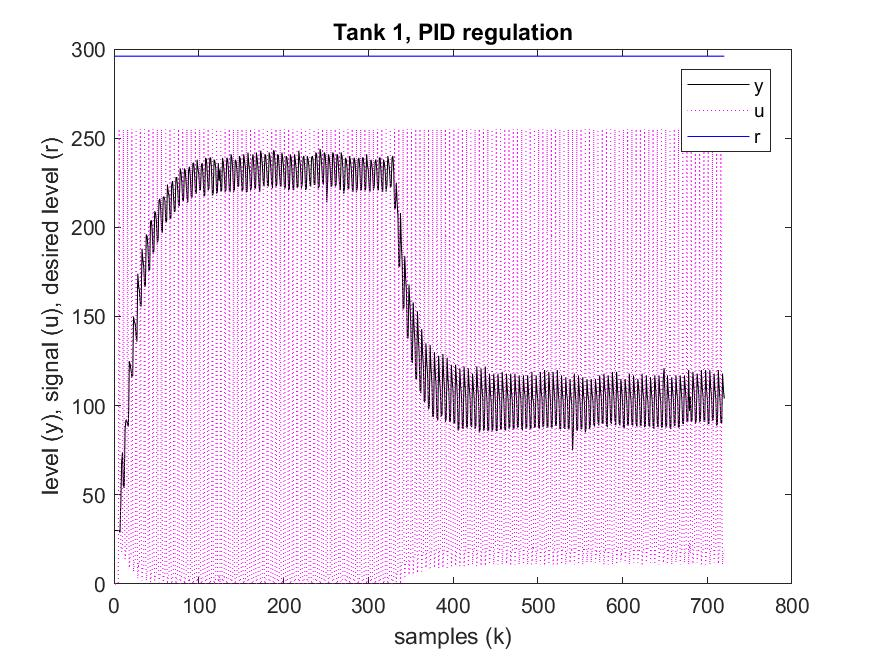
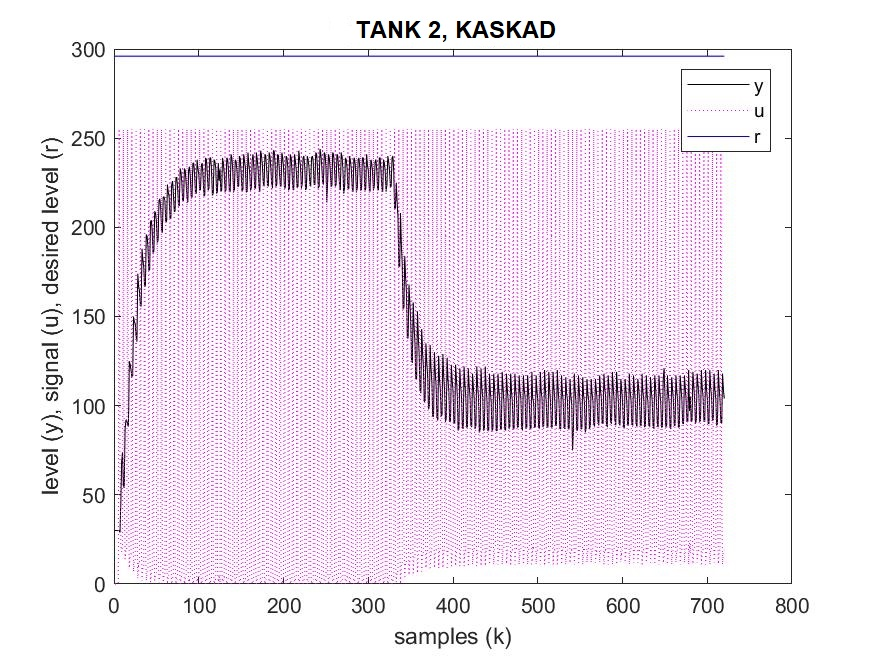
ändrat titeln på kaskad graferna

Changed region(s): [[0.3703, 0.0305, 0.648, 0.0915]]

diff --git a/F272_kaskadreglering.m b/F272_kaskadreglering.m
@@ -127,7 +127,7 @@ figure(2)
 plot(t,y1,'k-',t,u1,'m:',t,r,'b');
 xlabel('samples (k)')
 ylabel('level (y), signal (u), desired level (r)')
-title('Tank 1, PID regulation');
+title('Tank 2, Kaskad');
 legend('y ', 'u ', 'r ')
 
 saveas(figure(2), saveFile);
